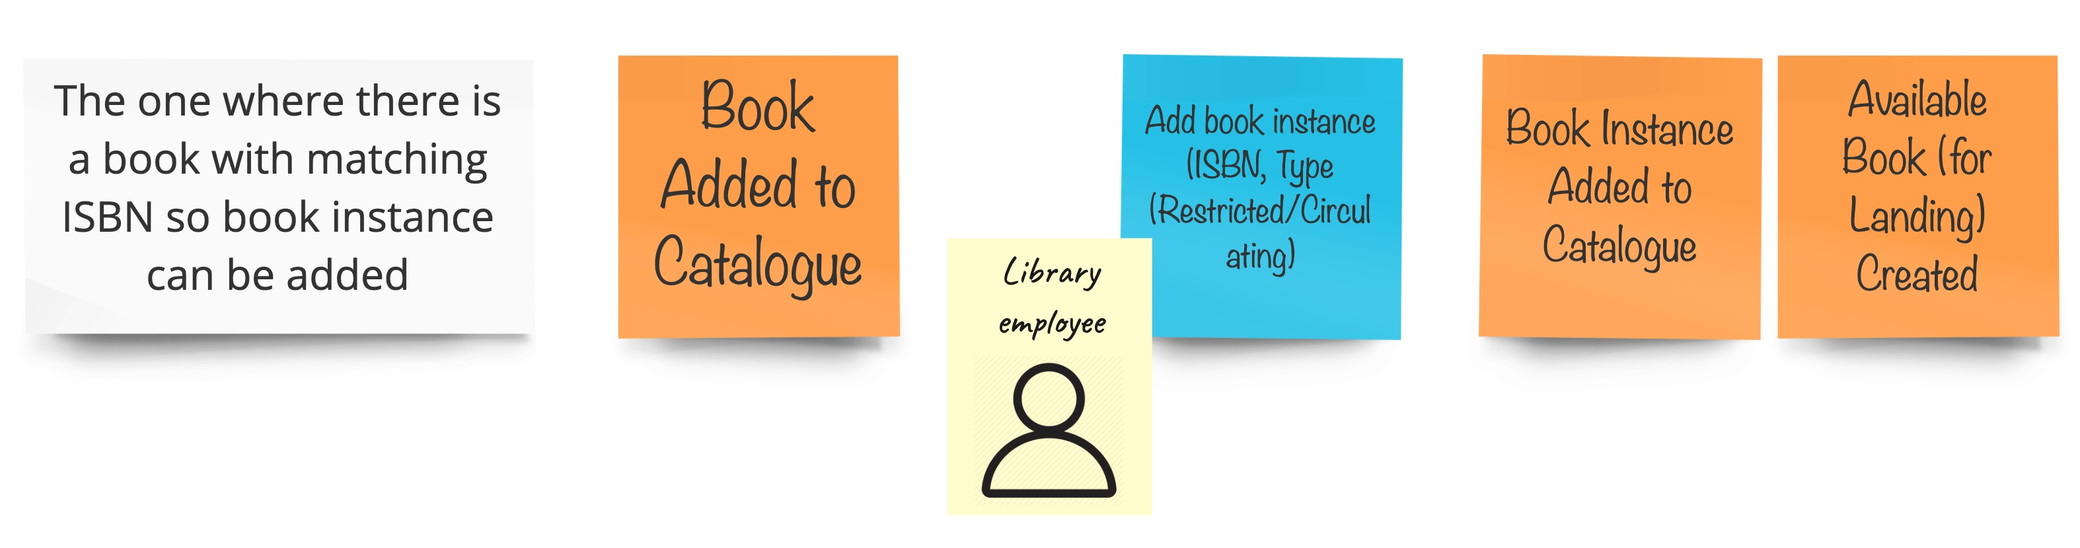
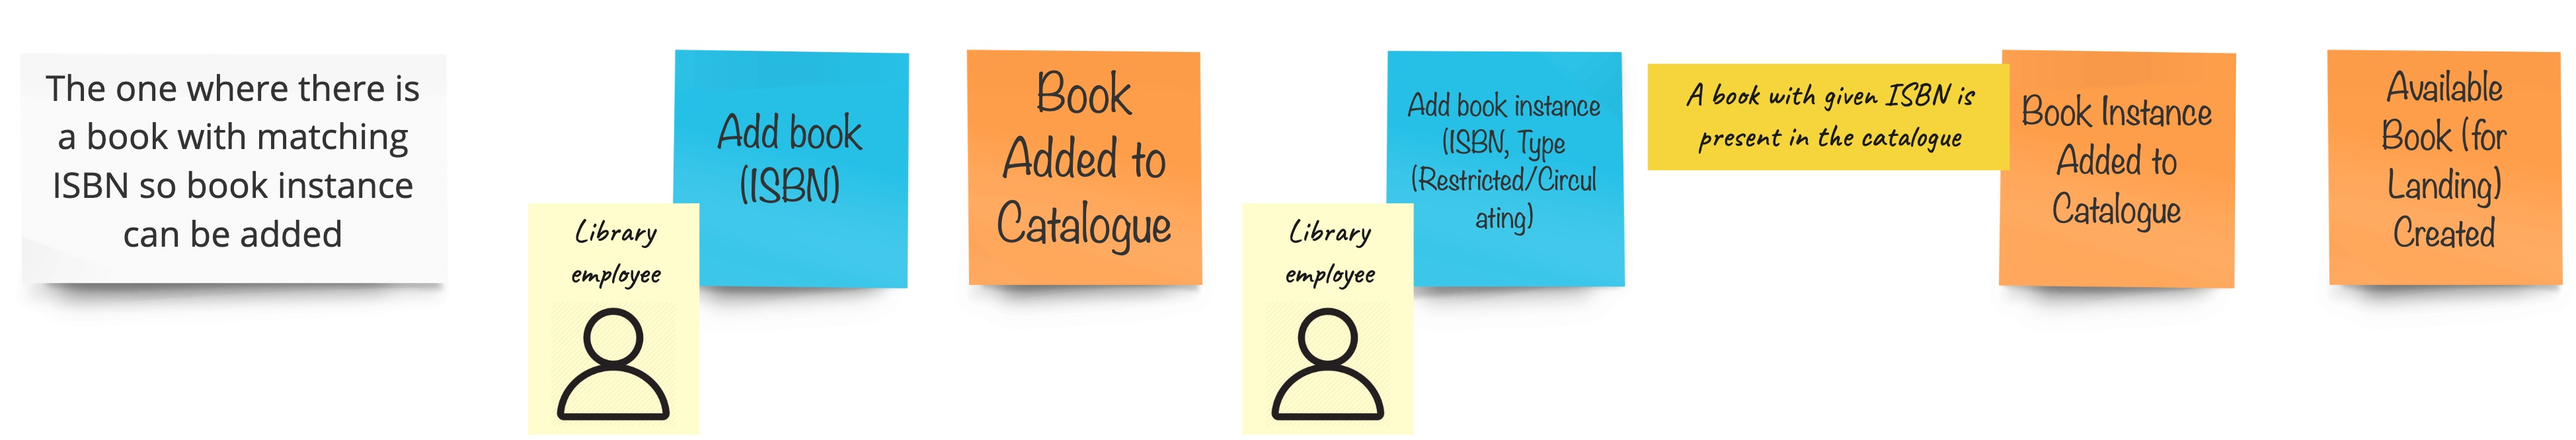
catalogue describned

diff --git a/docs/design-level.md b/docs/design-level.md
@@ -158,5 +158,12 @@ Moreover we do not expect the **returned book** to be ever registered as **overd
 
 ## Adding to catalogue
 
+The last area of analysis is the book **catalogue**. Catalogue is a collection of books and their instances.
+A book instance can be added only when there is a book with matching ISBN already registered in the catalogue:
+   
 ![Catalogue example 1](images/dl/addingtocatalogue/example-1.png)  
+
+If this is not the case, adding a book instance into catalogue should end up with failure.
 ![Catalogue example 2](images/dl/addingtocatalogue/example-2.png)  
+
+
